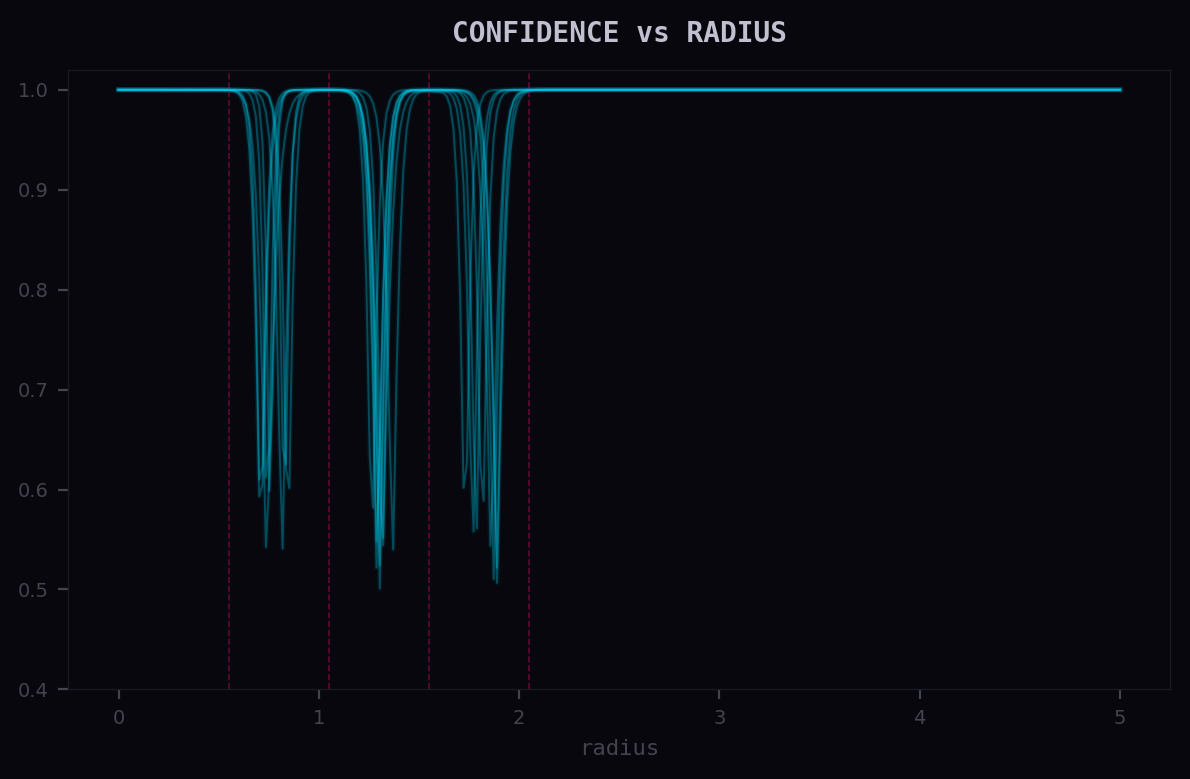
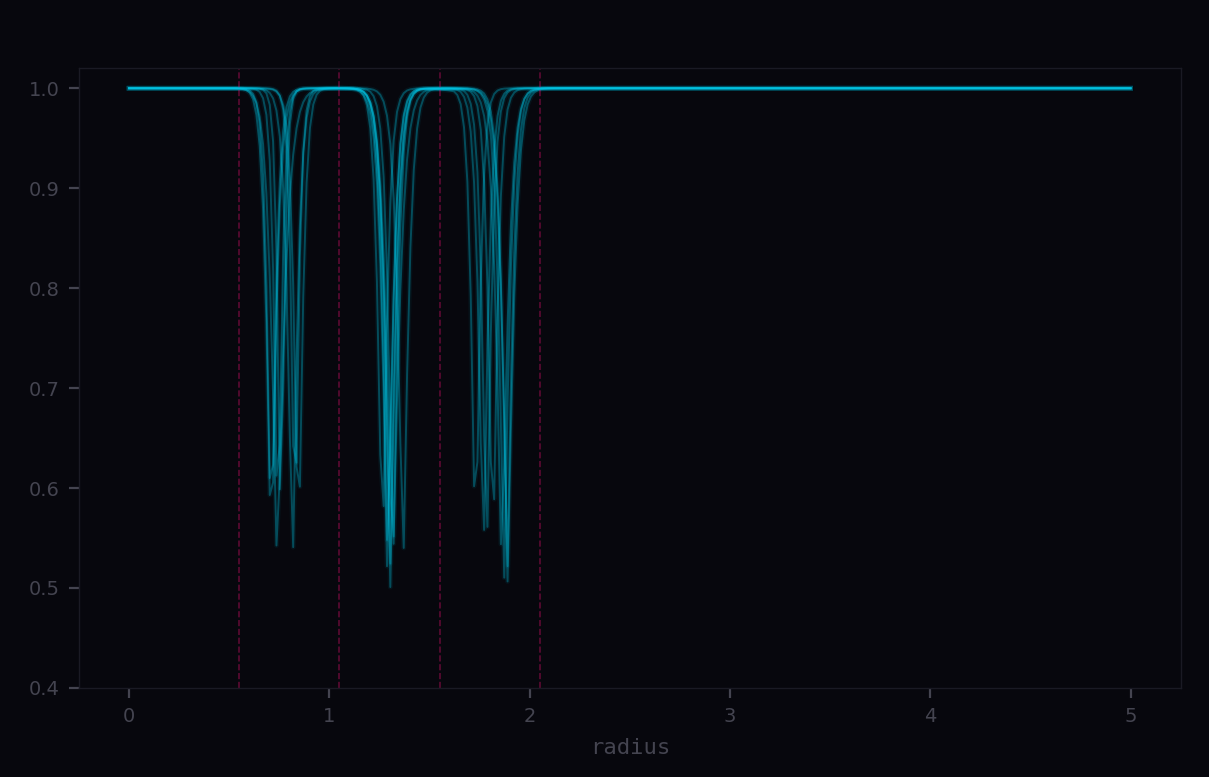
titleless gallery panels, drop softmax confidence from README

diff --git a/neural_geometry/relu.py b/neural_geometry/relu.py
@@ -345,15 +345,31 @@ def plot_confidence_map(geo, X, y):
     return fig
 
 
-def _save(fig, path):
-    import os as os
+def _save(fig, path, dpi=200):
+    import os
     os.makedirs(os.path.dirname(path), exist_ok=True)
-    fig.savefig(path, dpi=200, facecolor=fig.get_facecolor(),
+    fig.savefig(path, dpi=dpi, facecolor=fig.get_facecolor(),
                 bbox_inches="tight", pad_inches=0.1)
     print(f"  saved {path}")
 
 
-def run_all(save=False):
+def _save_panel(ax, path, dpi=200):
+    """Save a single axes as its own figure, no title."""
+    import os
+    os.makedirs(os.path.dirname(path), exist_ok=True)
+    extent = ax.get_tightbbox(ax.figure.canvas.get_renderer()).transformed(
+        ax.figure.dpi_scale_trans.inverted())
+    # hide title temporarily
+    title = ax.get_title()
+    ax.set_title("")
+    ax.figure.savefig(path, dpi=dpi, facecolor=ax.figure.get_facecolor(),
+                      bbox_inches=extent.expanded(1.05, 1.05))
+    ax.set_title(title, color=FG, fontsize=10, fontweight="bold", pad=10,
+                 fontfamily="monospace")
+    print(f"  saved {path}")
+
+
+def run_all(save=False, gallery=False):
     import os as _os
     net, X, y, loss_history, acc_history = build()
     geo = compute_geometry(net, X)
@@ -371,6 +387,15 @@ def run_all(save=False):
         for name, fig in figs.items():
             _save(fig, _os.path.join(assets, f"relu_{name}.png"))
 
+    if gallery:
+        reg = figs["regions"]
+        for i, name in enumerate(["layer1", "layer2", "joint", "boundary"]):
+            _save_panel(reg.axes[i], _os.path.join(assets, f"relu_{name}.png"))
+
+        rad = figs["radial"]
+        _save_panel(rad.axes[0], _os.path.join(assets, "relu_logit.png"))
+        _save_panel(rad.axes[1], _os.path.join(assets, "relu_conf_radius.png"))
+
     for fig in figs.values():
         fig.show()
 
@@ -379,4 +404,7 @@ def run_all(save=False):
 
 if __name__ == "__main__":
     import os, sys
-    run_all(save="--save" in sys.argv)
+    run_all(
+        save="--save" in sys.argv,
+        gallery="--gallery" in sys.argv,
+    )

diff --git a/README.md b/README.md
@@ -52,27 +52,23 @@ activation-region map, 600×600, 32 hidden units
 
 A from-scratch ReLU classifier on a radial-band dataset, with visualizations of layerwise regions, their joint partition, and the final decision boundary. Successive ReLU layers partition the plane into increasingly fine linear regions, and the decision boundary emerges from that composed structure.
 
-<br>
 
 <p>
 <img src="assets/relu_layer1.png" width="24%"> <img src="assets/relu_layer2.png" width="24%"> <img src="assets/relu_joint.png" width="24%"> <img src="assets/relu_boundary.png" width="24%">
 </p>
 
 <p align="center">
-<sub>Layer 1 regions &nbsp;&nbsp;&nbsp; Layer 2 regions &nbsp;&nbsp;&nbsp; Joint partition &nbsp;&nbsp;&nbsp; Decision boundary</sub>
+<sub>Layer 1 &nbsp;&nbsp;&nbsp;&nbsp;&nbsp;&nbsp;&nbsp;&nbsp; Layer 2 &nbsp;&nbsp;&nbsp;&nbsp;&nbsp;&nbsp;&nbsp;&nbsp; Joint partition &nbsp;&nbsp;&nbsp;&nbsp;&nbsp;&nbsp;&nbsp;&nbsp; Decision boundary</sub>
 </p>
 
-<br>
-
 <p>
-<img src="assets/relu_logit.png" width="32%"> <img src="assets/relu_conf_radius.png" width="32%"> <img src="assets/relu_confidence.png" width="32%">
+<img src="assets/relu_logit.png" width="48%"> <img src="assets/relu_conf_radius.png" width="48%">
 </p>
 
 <p align="center">
-<sub>Logit difference vs radius &nbsp;&nbsp;&nbsp; Confidence vs radius &nbsp;&nbsp;&nbsp; Softmax confidence</sub>
+<sub>Logit difference vs radius &nbsp;&nbsp;&nbsp;&nbsp;&nbsp;&nbsp;&nbsp;&nbsp;&nbsp;&nbsp;&nbsp;&nbsp;&nbsp;&nbsp;&nbsp;&nbsp; Confidence vs radius</sub>
 </p>
 
-<br>
 
 <kbd>bayesian</kbd> &nbsp; [neural_geometry/bayesian.py](neural_geometry/bayesian.py)
 
